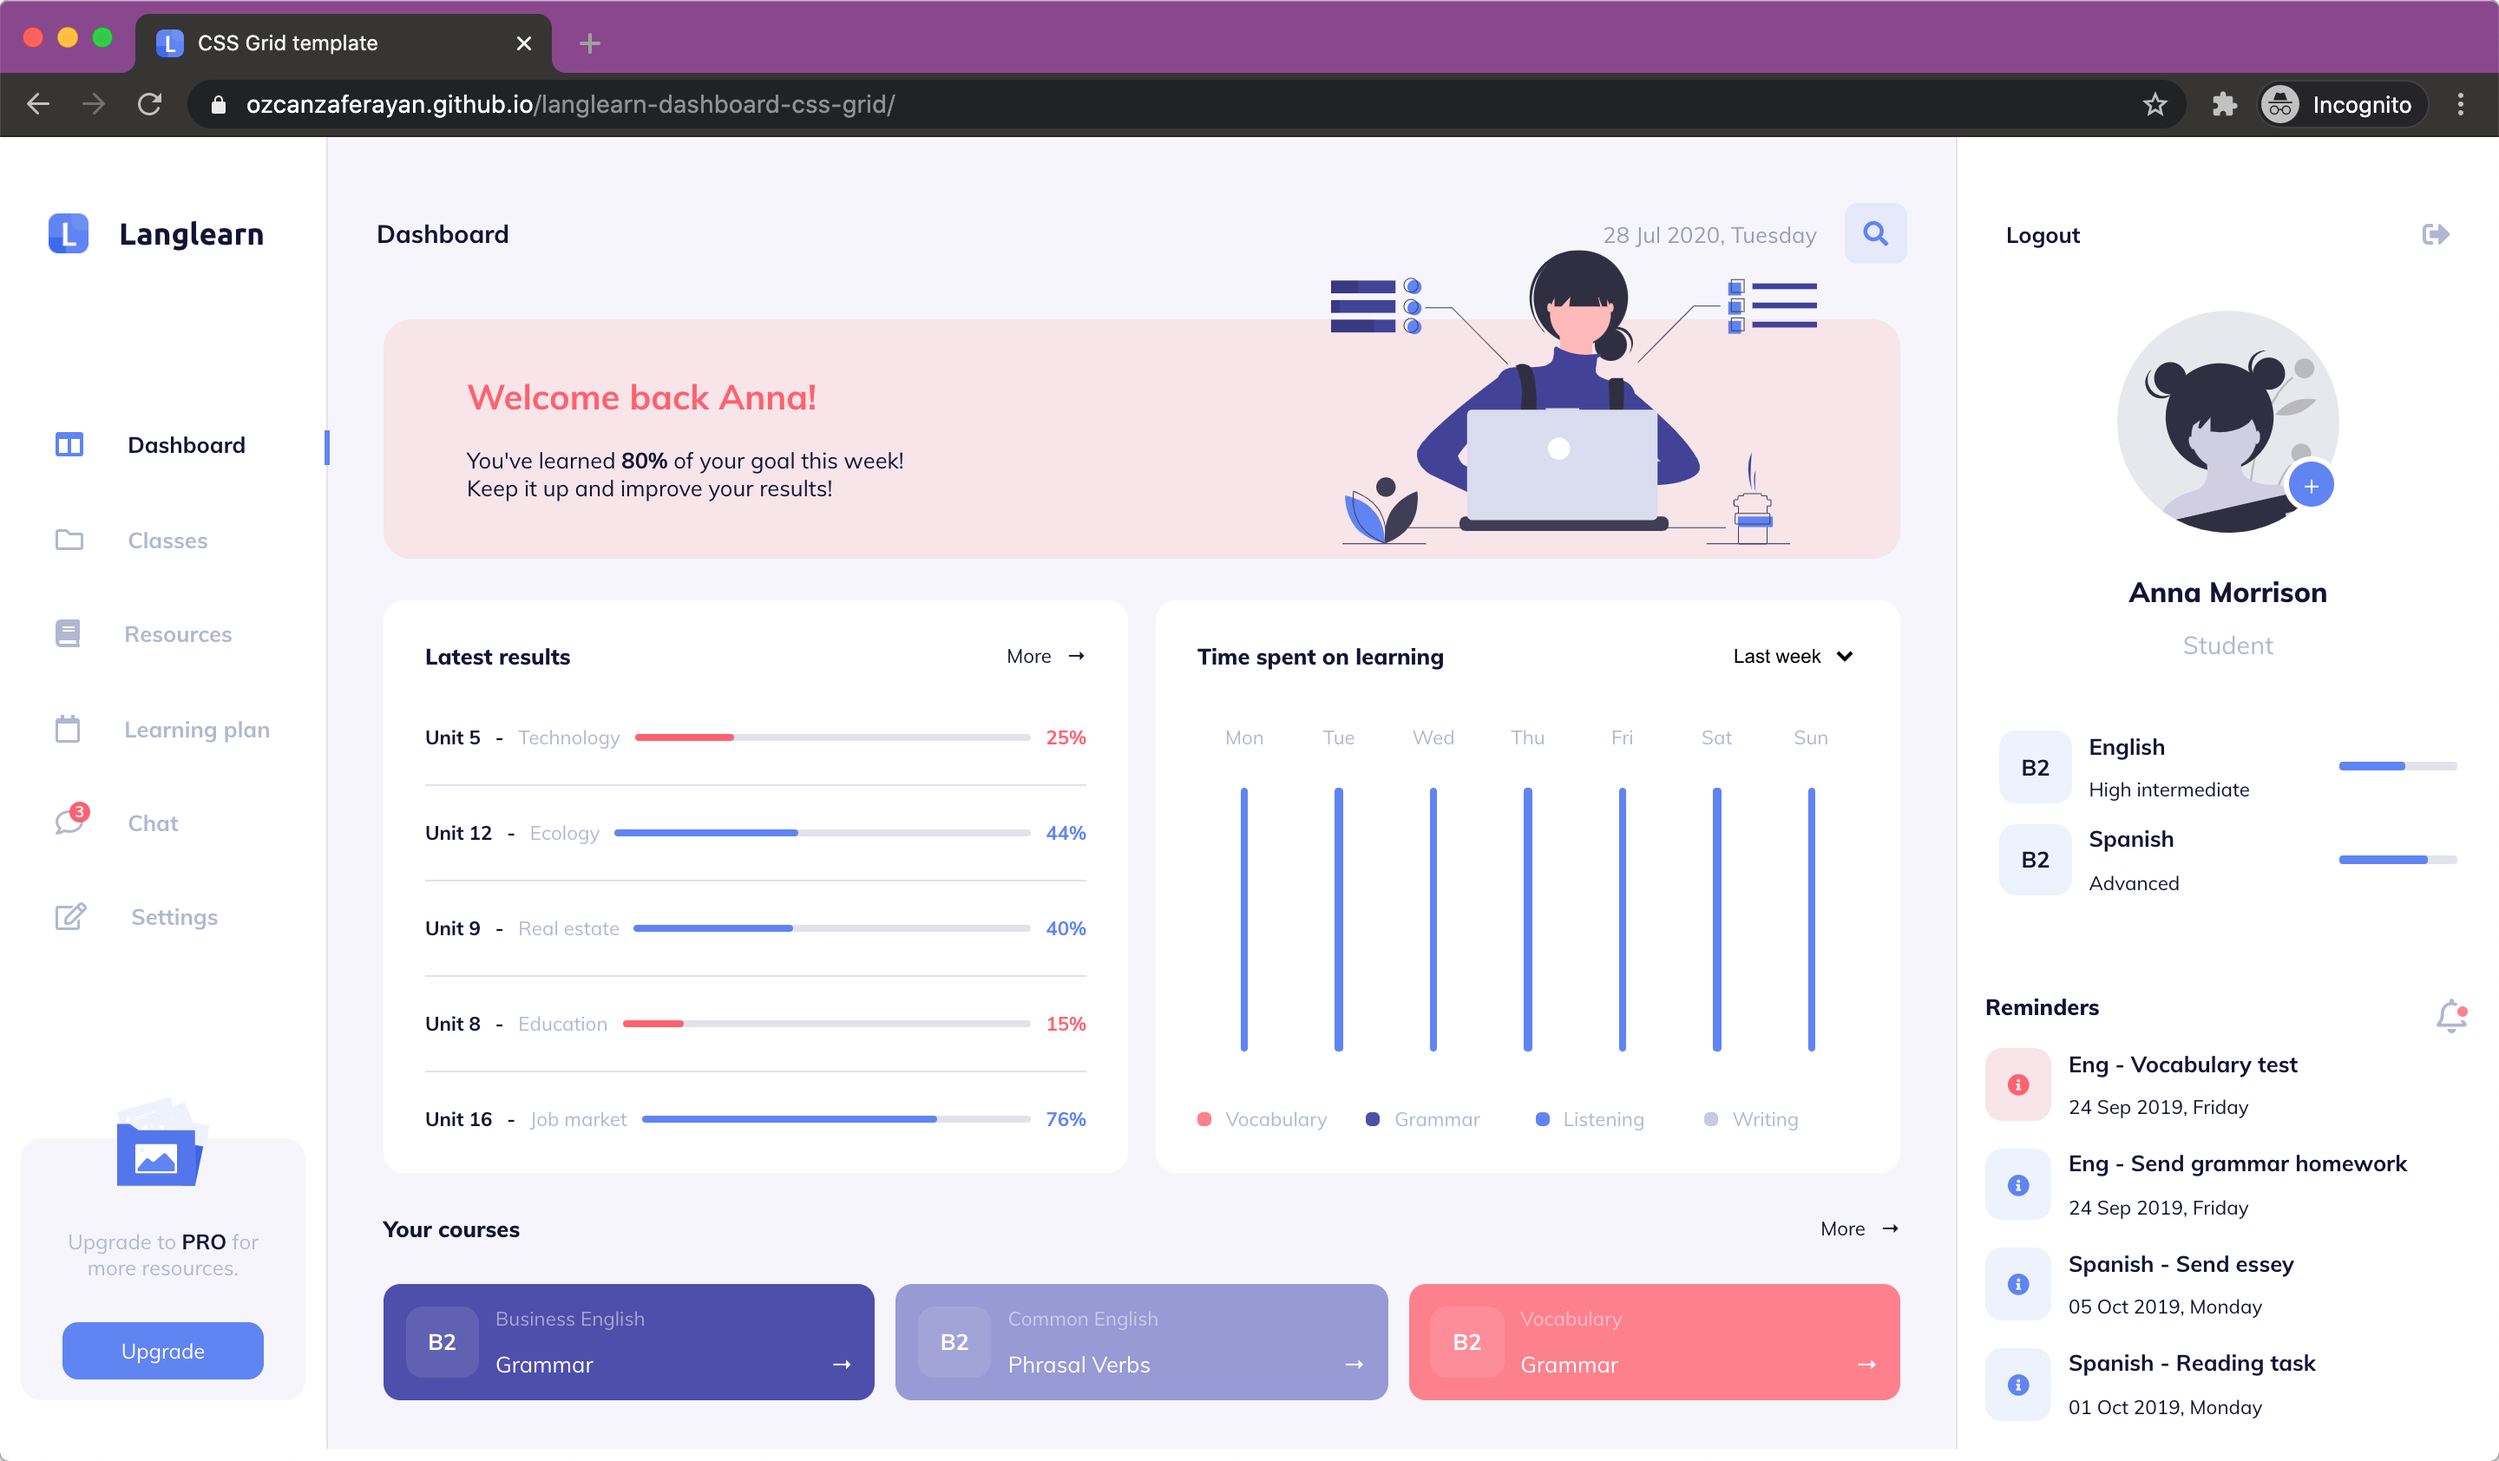
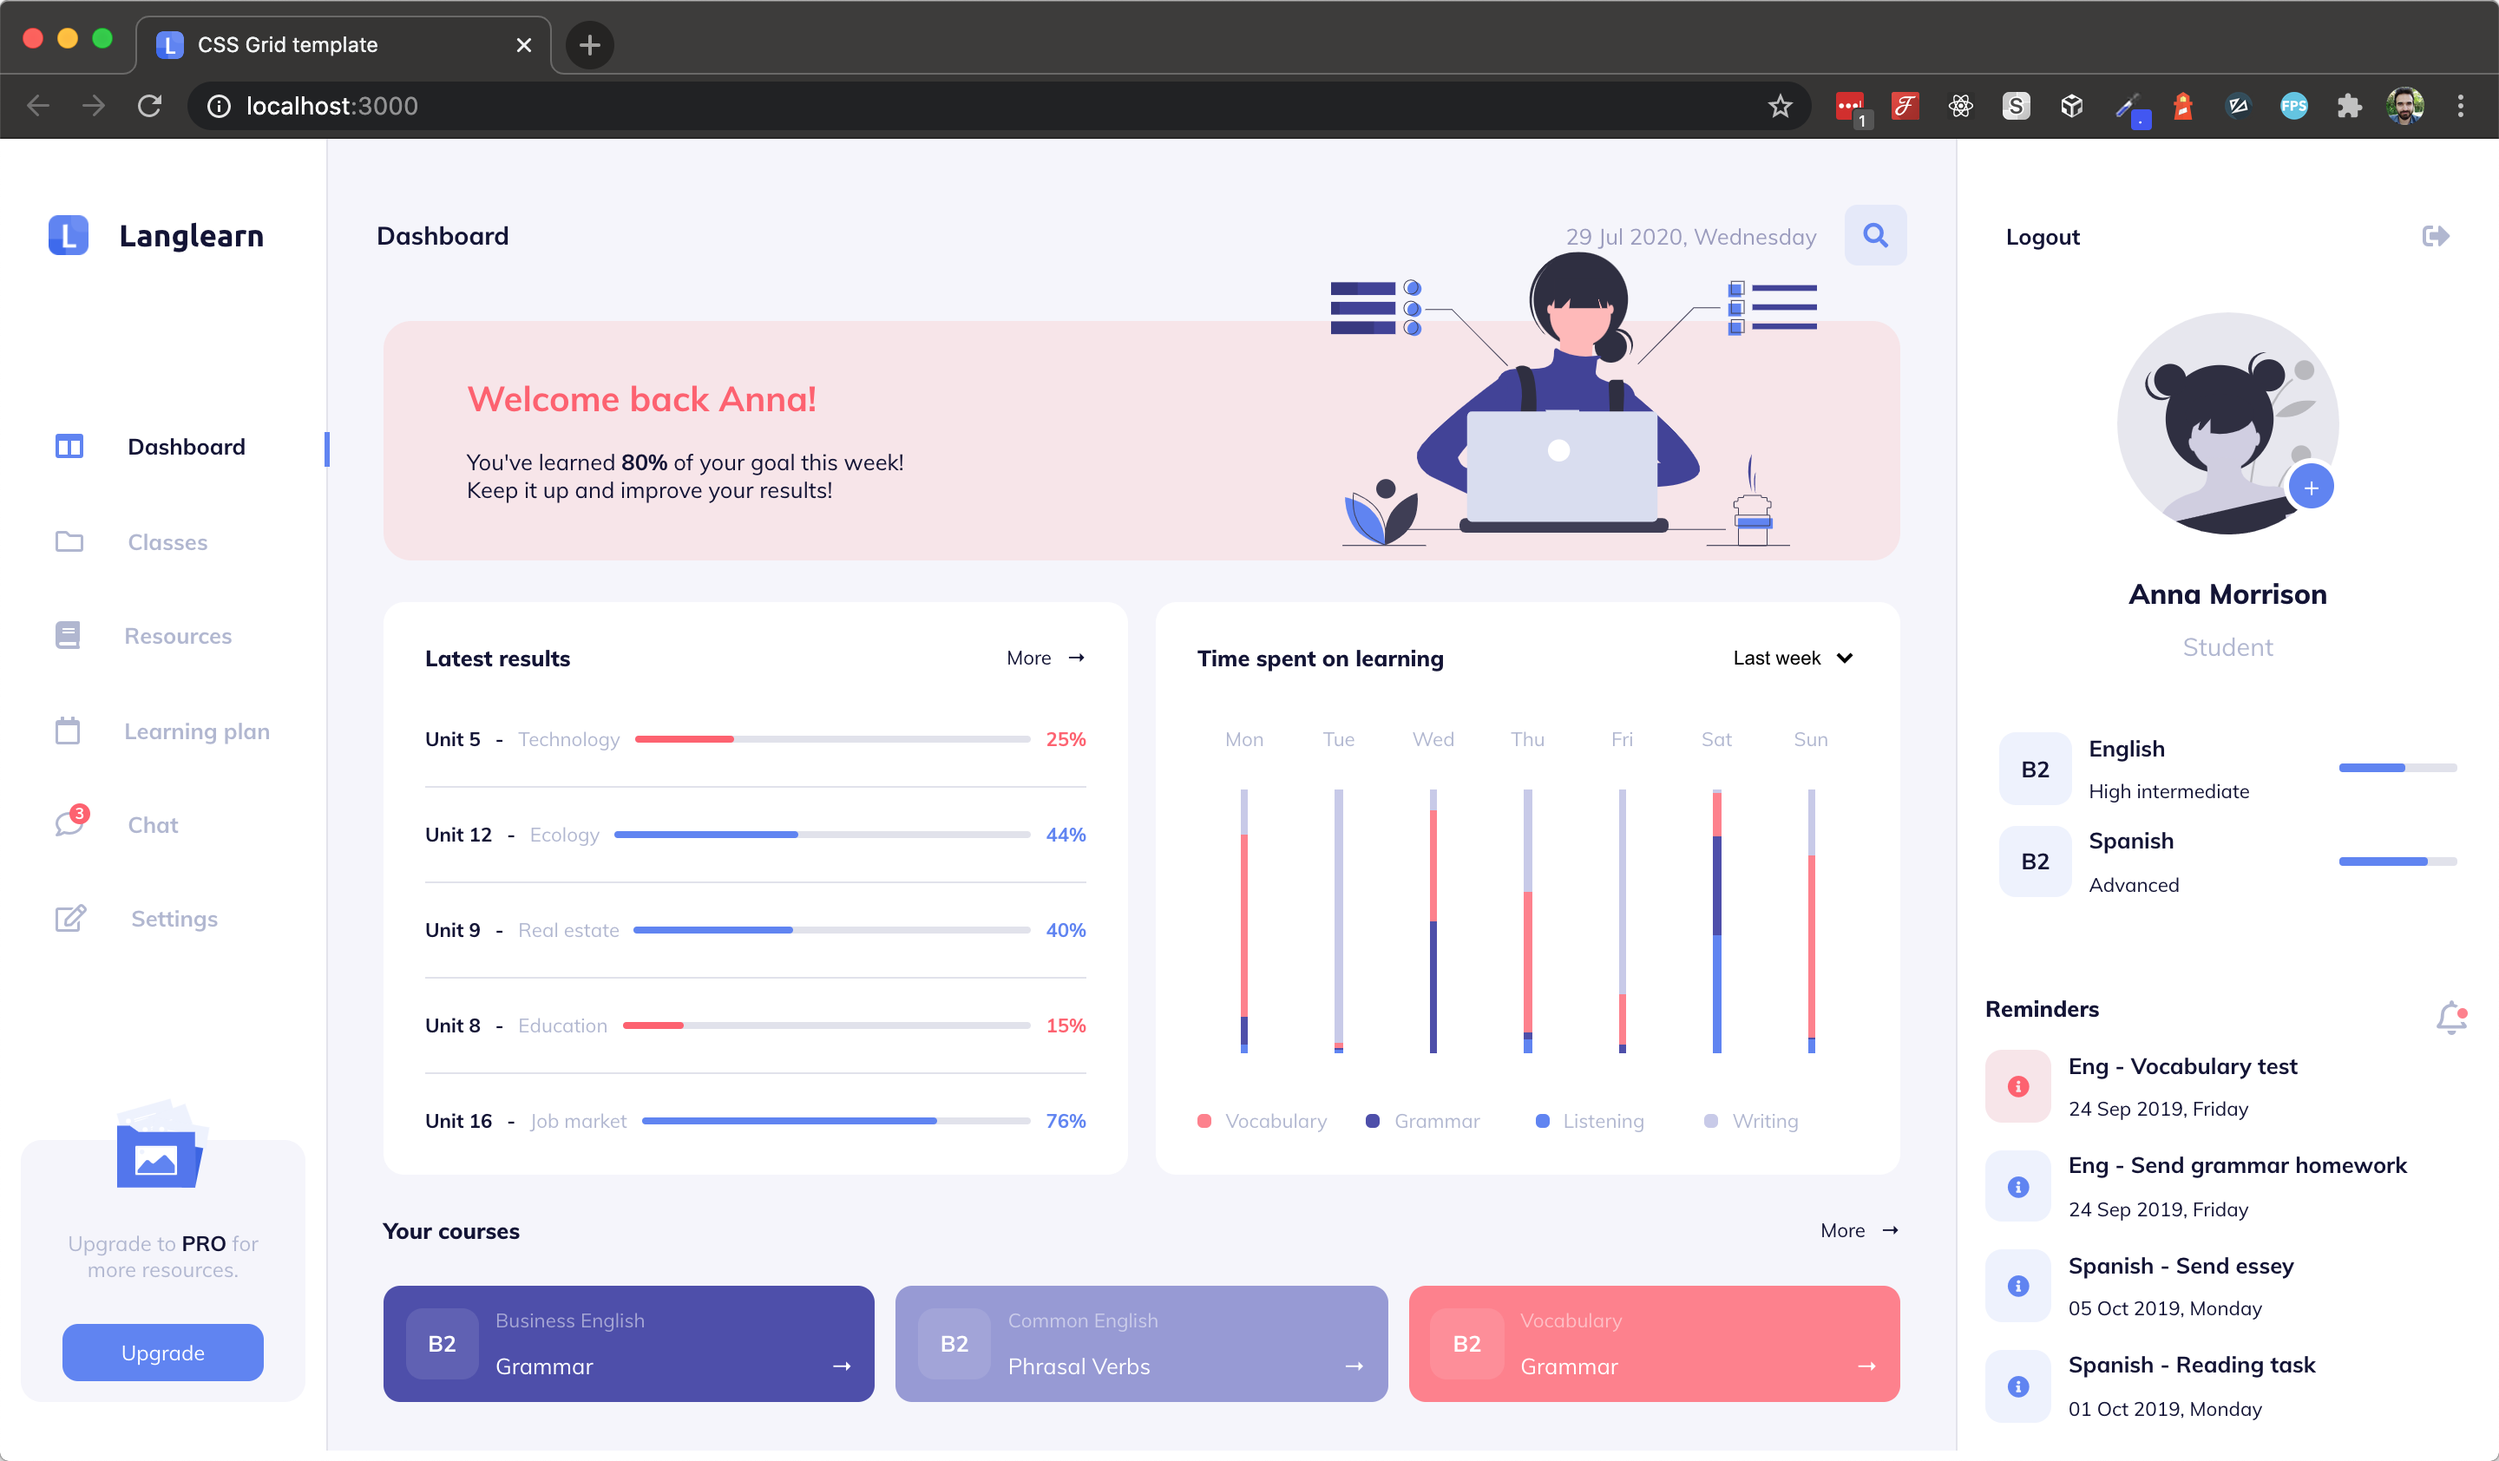
Fix chart issue

diff --git a/css/main.css b/css/main.css
@@ -342,6 +342,134 @@ main .rightElement {
   background-color: #5e81f4;
   justify-self: center; }
 
+.day:nth-child(0) .progressContainer .vocabulary {
+  background-color: #ff808b;
+  height: 21%; }
+
+.day:nth-child(0) .progressContainer .grammar {
+  background-color: #4d4cac;
+  height: 20%; }
+
+.day:nth-child(0) .progressContainer .listening {
+  background-color: #5e81f4;
+  height: 27%; }
+
+.day:nth-child(0) .progressContainer .writing {
+  background-color: #c8c9e9;
+  height: 32%; }
+
+.day:nth-child(1) .progressContainer .vocabulary {
+  background-color: #ff808b;
+  height: 69%; }
+
+.day:nth-child(1) .progressContainer .grammar {
+  background-color: #4d4cac;
+  height: 11%; }
+
+.day:nth-child(1) .progressContainer .listening {
+  background-color: #5e81f4;
+  height: 3%; }
+
+.day:nth-child(1) .progressContainer .writing {
+  background-color: #c8c9e9;
+  height: 17%; }
+
+.day:nth-child(2) .progressContainer .vocabulary {
+  background-color: #ff808b;
+  height: 2%; }
+
+.day:nth-child(2) .progressContainer .grammar {
+  background-color: #4d4cac;
+  height: 1%; }
+
+.day:nth-child(2) .progressContainer .listening {
+  background-color: #5e81f4;
+  height: 1%; }
+
+.day:nth-child(2) .progressContainer .writing {
+  background-color: #c8c9e9;
+  height: 96%; }
+
+.day:nth-child(3) .progressContainer .vocabulary {
+  background-color: #ff808b;
+  height: 42%; }
+
+.day:nth-child(3) .progressContainer .grammar {
+  background-color: #4d4cac;
+  height: 50%; }
+
+.day:nth-child(3) .progressContainer .listening {
+  background-color: #5e81f4;
+  height: 0%; }
+
+.day:nth-child(3) .progressContainer .writing {
+  background-color: #c8c9e9;
+  height: 8%; }
+
+.day:nth-child(4) .progressContainer .vocabulary {
+  background-color: #ff808b;
+  height: 53%; }
+
+.day:nth-child(4) .progressContainer .grammar {
+  background-color: #4d4cac;
+  height: 3%; }
+
+.day:nth-child(4) .progressContainer .listening {
+  background-color: #5e81f4;
+  height: 5%; }
+
+.day:nth-child(4) .progressContainer .writing {
+  background-color: #c8c9e9;
+  height: 39%; }
+
+.day:nth-child(5) .progressContainer .vocabulary {
+  background-color: #ff808b;
+  height: 19%; }
+
+.day:nth-child(5) .progressContainer .grammar {
+  background-color: #4d4cac;
+  height: 3%; }
+
+.day:nth-child(5) .progressContainer .listening {
+  background-color: #5e81f4;
+  height: 0%; }
+
+.day:nth-child(5) .progressContainer .writing {
+  background-color: #c8c9e9;
+  height: 78%; }
+
+.day:nth-child(6) .progressContainer .vocabulary {
+  background-color: #ff808b;
+  height: 17%; }
+
+.day:nth-child(6) .progressContainer .grammar {
+  background-color: #4d4cac;
+  height: 37%; }
+
+.day:nth-child(6) .progressContainer .listening {
+  background-color: #5e81f4;
+  height: 45%; }
+
+.day:nth-child(6) .progressContainer .writing {
+  background-color: #c8c9e9;
+  height: 1%; }
+
+.day:nth-child(7) .progressContainer .vocabulary {
+  background-color: #ff808b;
+  height: 69%; }
+
+.day:nth-child(7) .progressContainer .grammar {
+  background-color: #4d4cac;
+  height: 1%; }
+
+.day:nth-child(7) .progressContainer .listening {
+  background-color: #5e81f4;
+  height: 5%; }
+
+.day:nth-child(7) .progressContainer .writing {
+  background-color: #c8c9e9;
+  height: 25%; }
+
 .timeSpent .legendContainer {
   display: grid;
   grid-template-columns: repeat(4, 1fr);

diff --git a/css/main.scss b/css/main.scss
@@ -467,30 +467,31 @@ main .rightElement {
     justify-self: center;
 }
 
-// @for $i from 0 to 8 {
-//     $writing-percent: random(100);
-//     $vocabulary-percent: random(100 - $writing-percent);
-//     $grammar-percent: random(100 - $writing-percent - $vocabulary-percent);
-//     $listening-percent: 100 - $writing-percent - $vocabulary-percent - $grammar-percent;
-//     .day:nth-child(#{$i}) .progressContainer {
-//         .vocabulary {
-//             background-color: $vocabulary;
-//             height: percentage($vocabulary-percent / 100);
-//         }
-//         .grammar {
-//             background-color: $grammar;
-//             height: percentage($grammar-percent / 100);
-//         }
-//         .listening {
-//             background-color: $listening;
-//             height: percentage($listening-percent / 100);
-//         }
-//         .writing {
-//             background-color: $writing;
-//             height: percentage($writing-percent / 100);
-//         }
-//     }
-// }
+@for $i from 0 to 8 {
+    $writing-percent: random(100);
+    $vocabulary-percent: random(100 - $writing-percent);
+    $grammar-percent: random(100 - $writing-percent - $vocabulary-percent);
+    $listening-percent: 100 - $writing-percent - $vocabulary-percent - $grammar-percent;
+    .day:nth-child(#{$i}) .progressContainer {
+        .vocabulary {
+            background-color: $vocabulary;
+            height: percentage($vocabulary-percent / 100);
+        }
+        .grammar {
+            background-color: $grammar;
+            height: percentage($grammar-percent / 100);
+        }
+        .listening {
+            background-color: $listening;
+            height: percentage($listening-percent / 100);
+        }
+        .writing {
+            background-color: $writing;
+            height: percentage($writing-percent / 100);
+        }
+    }
+}
+
 .timeSpent .legendContainer {
     display: grid;
     grid-template-columns: repeat(4, 1fr);
